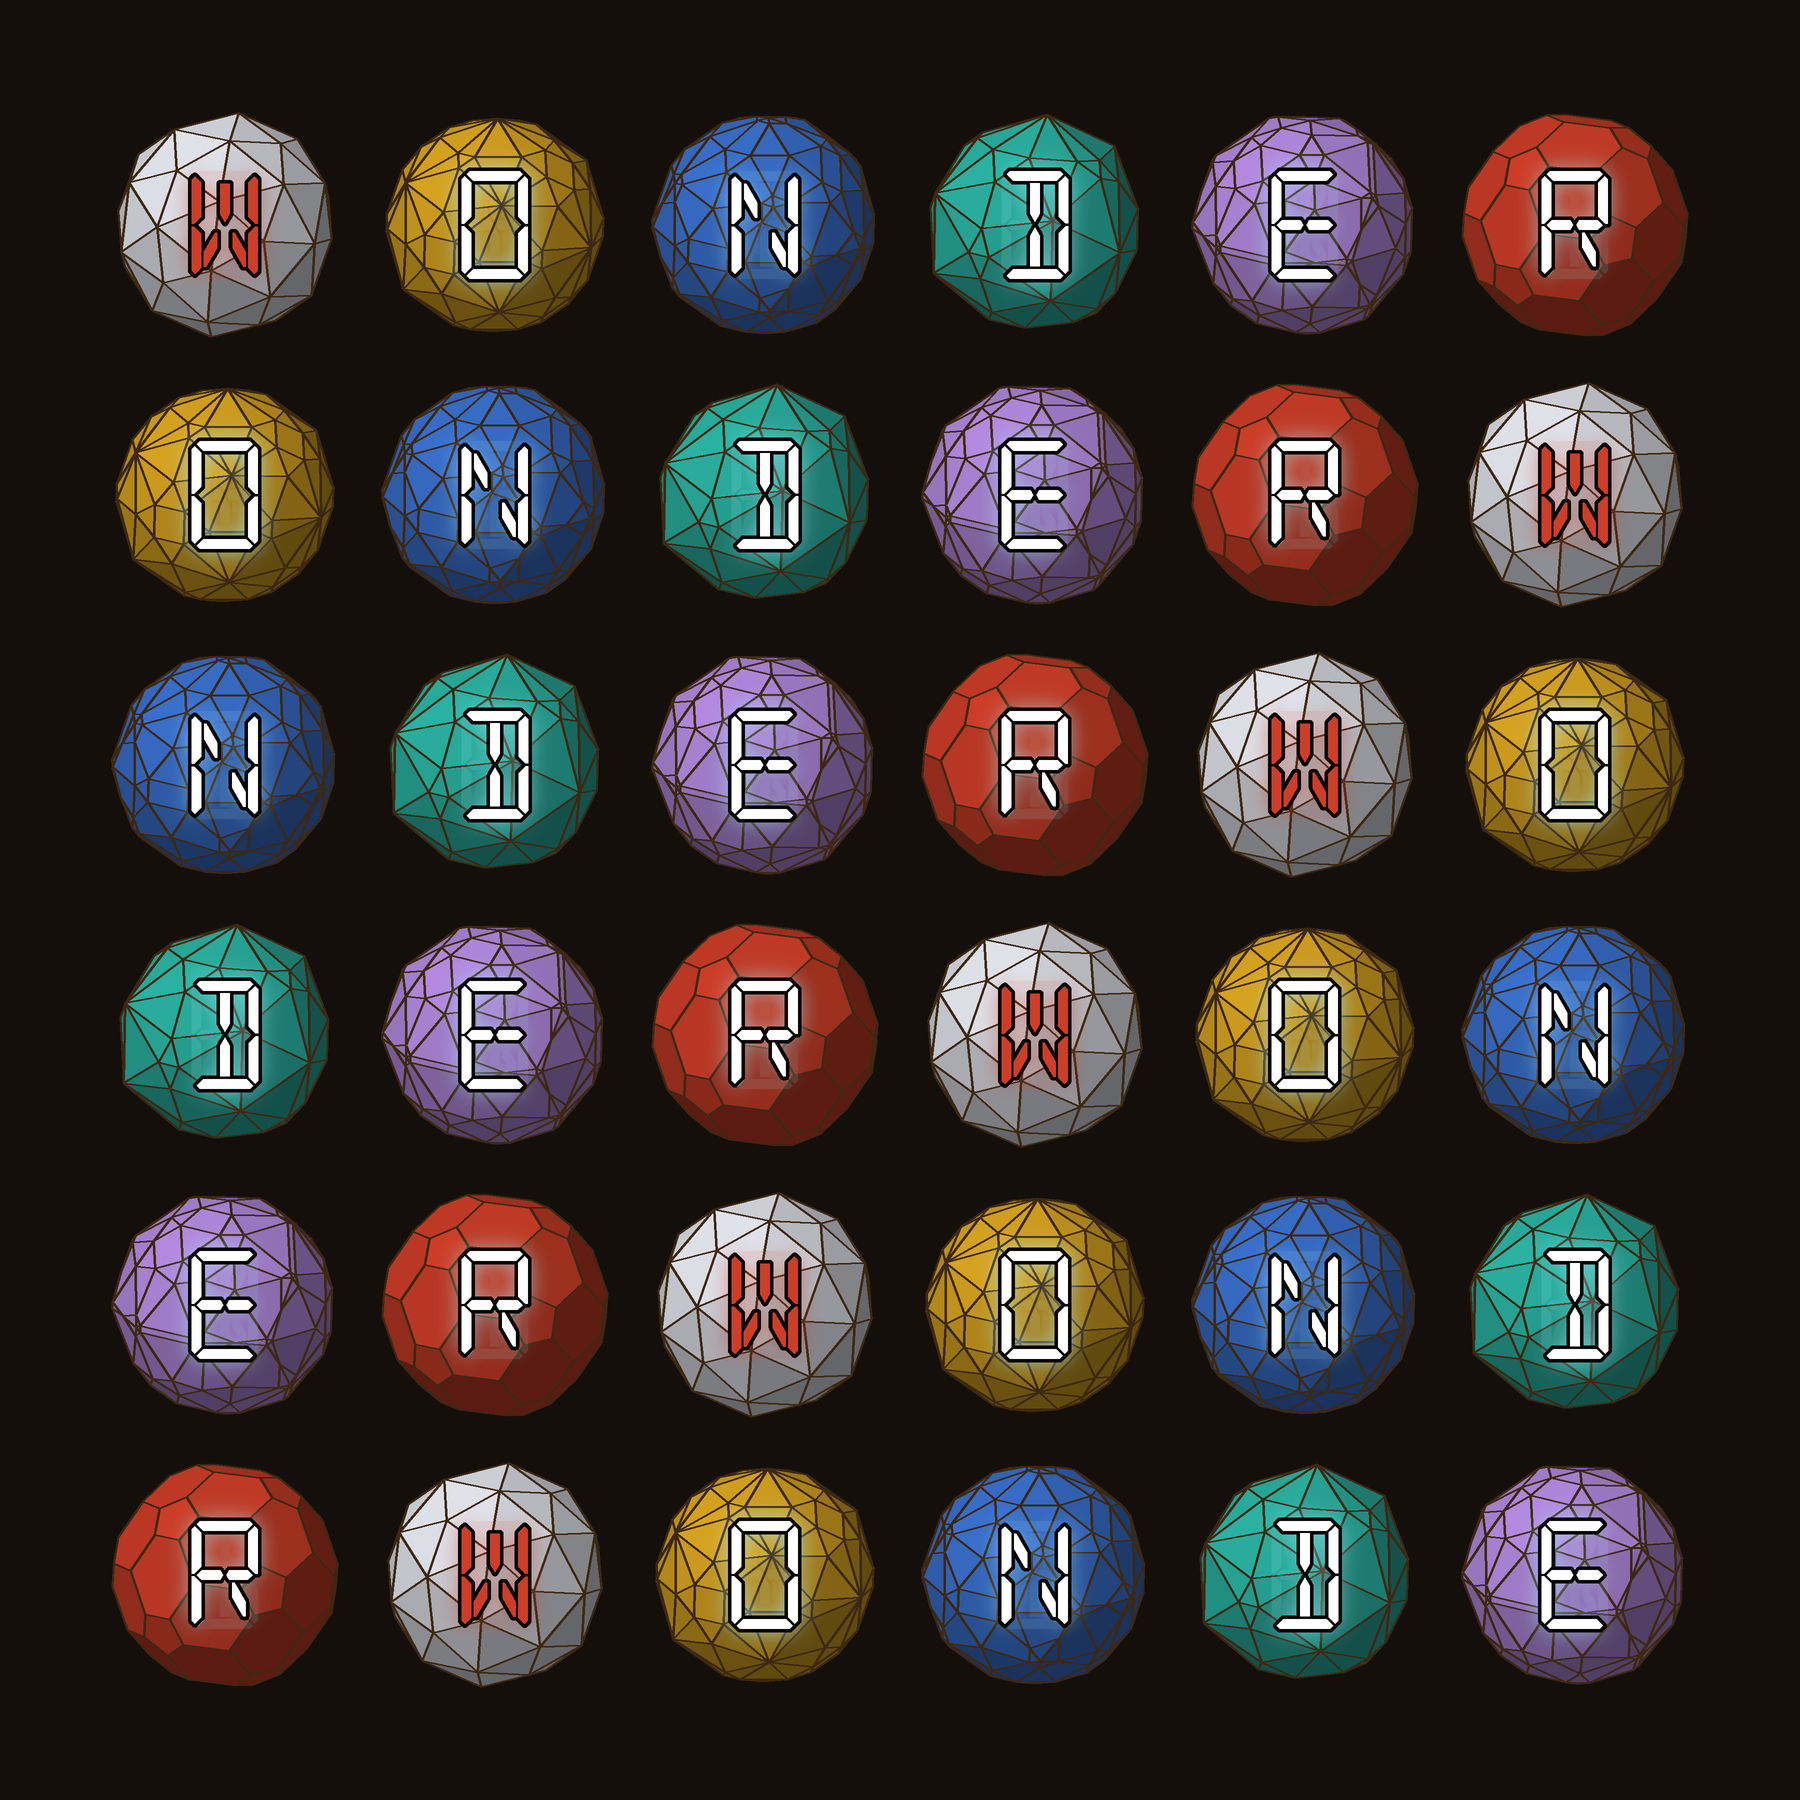
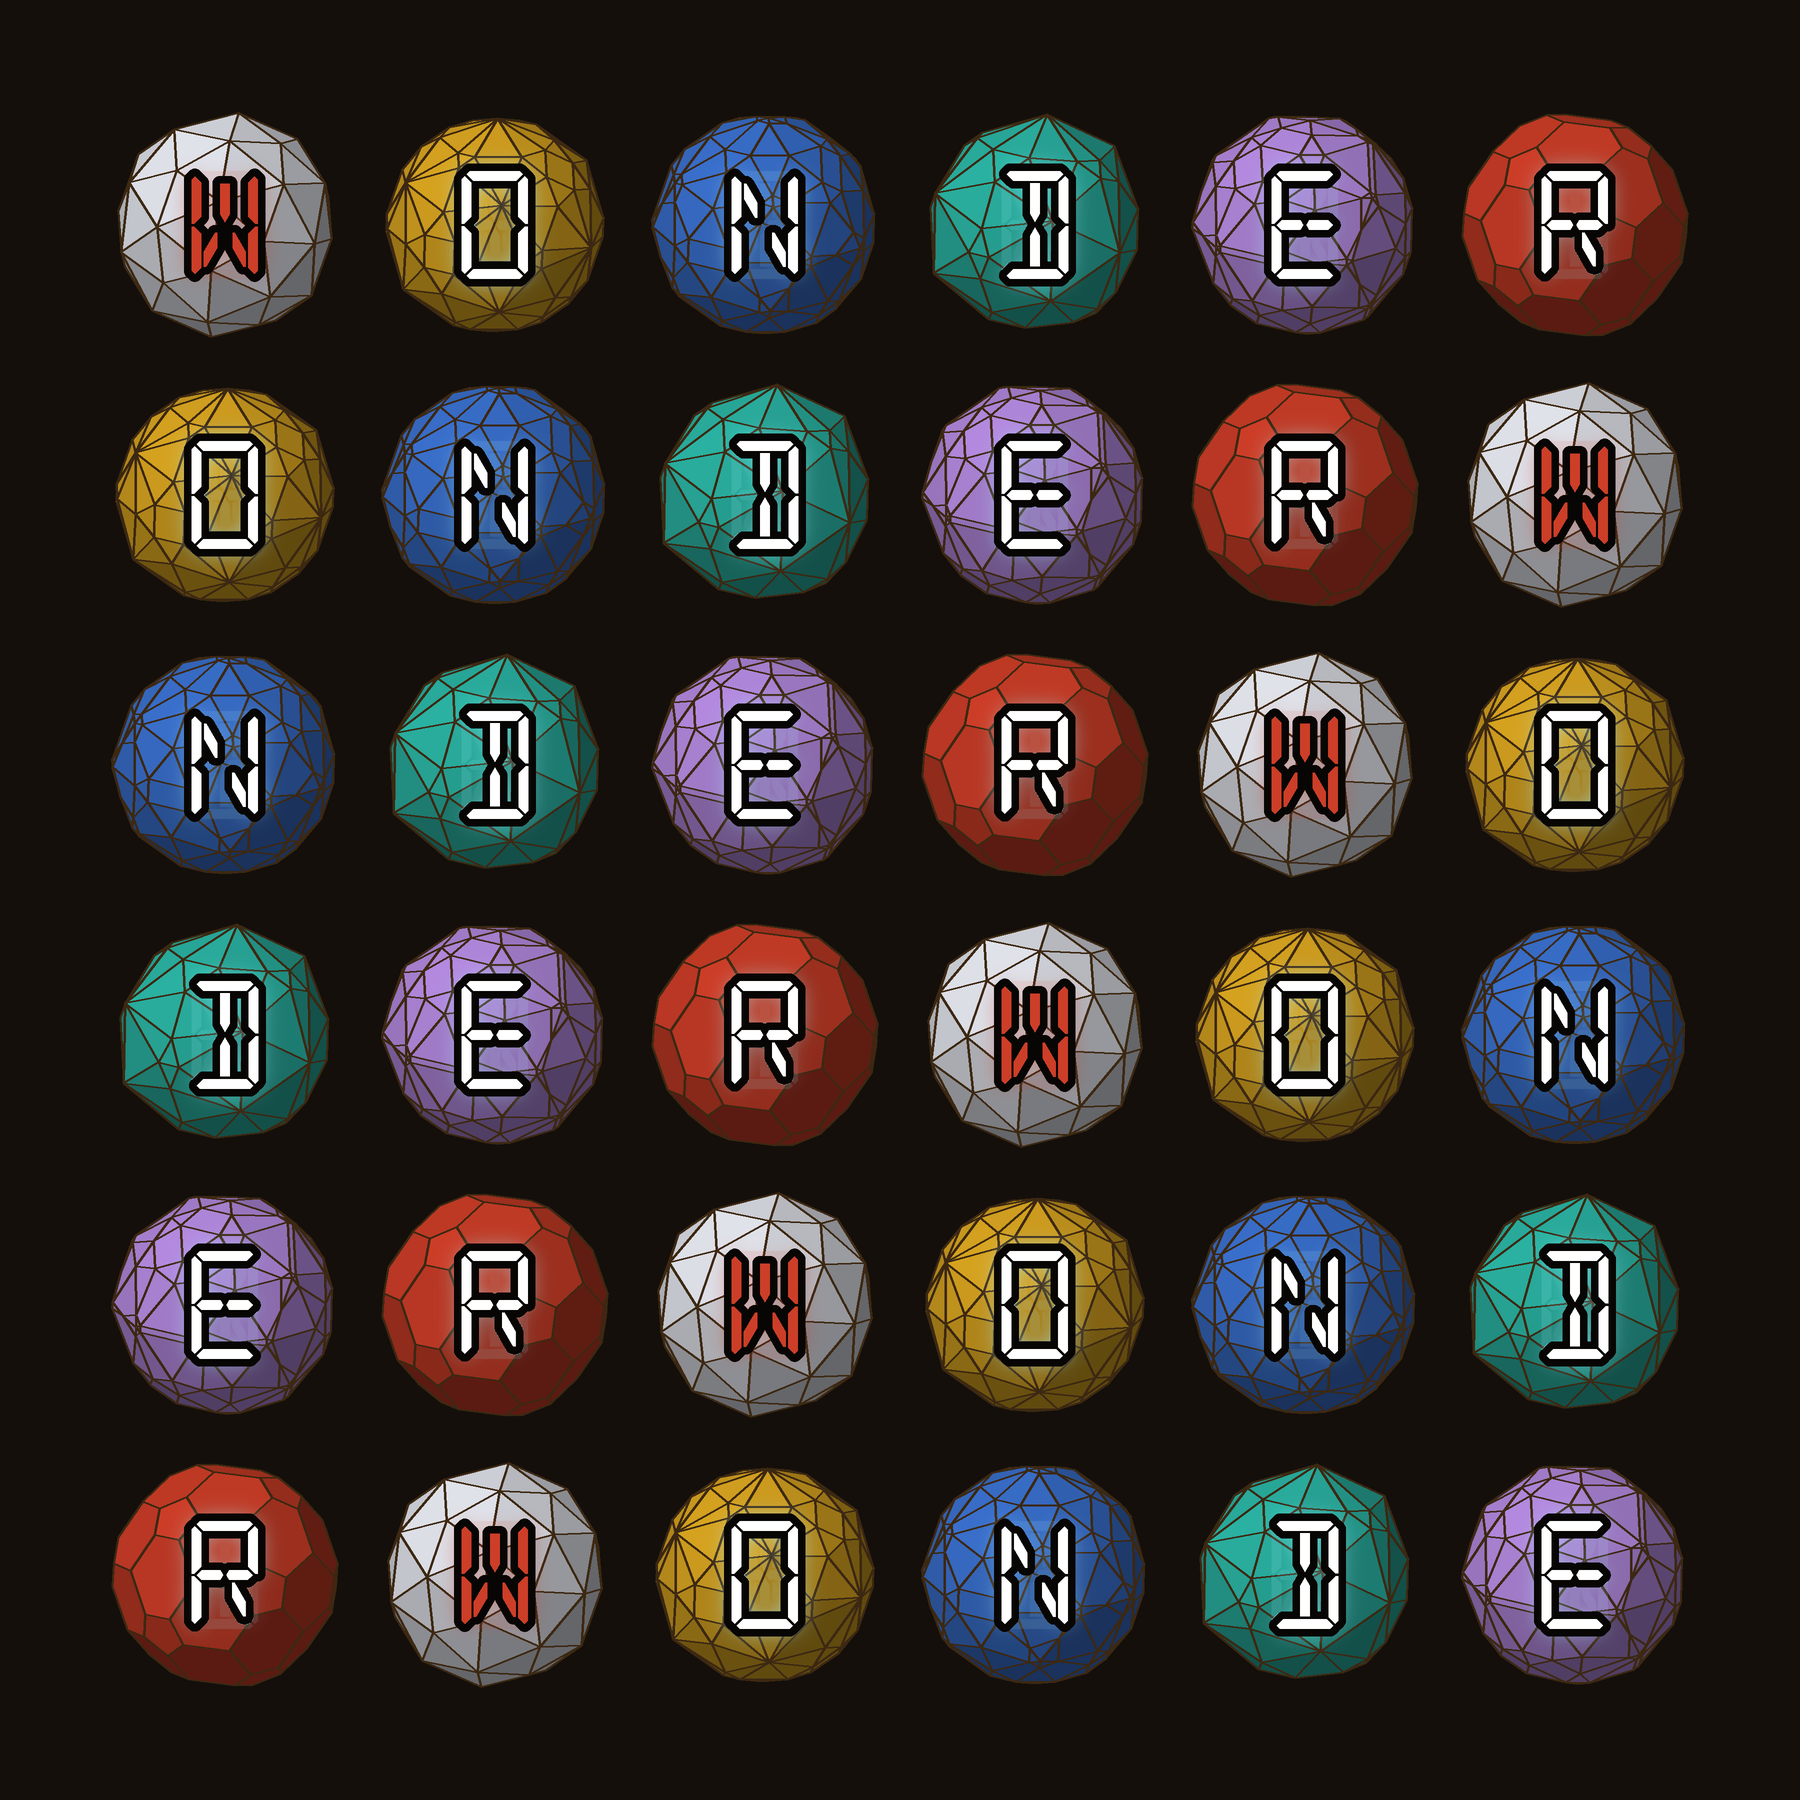
Alicia cover: stronger black letter outlines over the spheres (DICTO 10-29)

diff --git a/studies/2026-10-29-wonder-cover/scripts/wonder_square.py b/studies/2026-10-29-wonder-cover/scripts/wonder_square.py
@@ -63,7 +63,7 @@ for i in range(6):
             dr.polygon(pts, fill=col); dr.line(pts + [pts[0]], fill=EDGE, width=2 * SS)
 f = ImageFont.truetype(os.environ.get('LEDFONT', 'DSEG14Classic-Regular.ttf'), int(0.06 * W))
 def carved(ch):
-    box = int(0.13 * W); edge = int(0.0022 * W)
+    box = int(0.13 * W); edge = int(0.0042 * W)   # DICTO 10-29: black letter outlines over the spheres, stronger than on the flat-faced covers
     def lay(t, sw=0):
         m = Image.new('L', (box, box), 0); ImageDraw.Draw(m).text((box / 2, box / 2), t, font=f, fill=255, anchor='mm', stroke_width=sw, stroke_fill=255)
         return np.array(m, float) / 255
